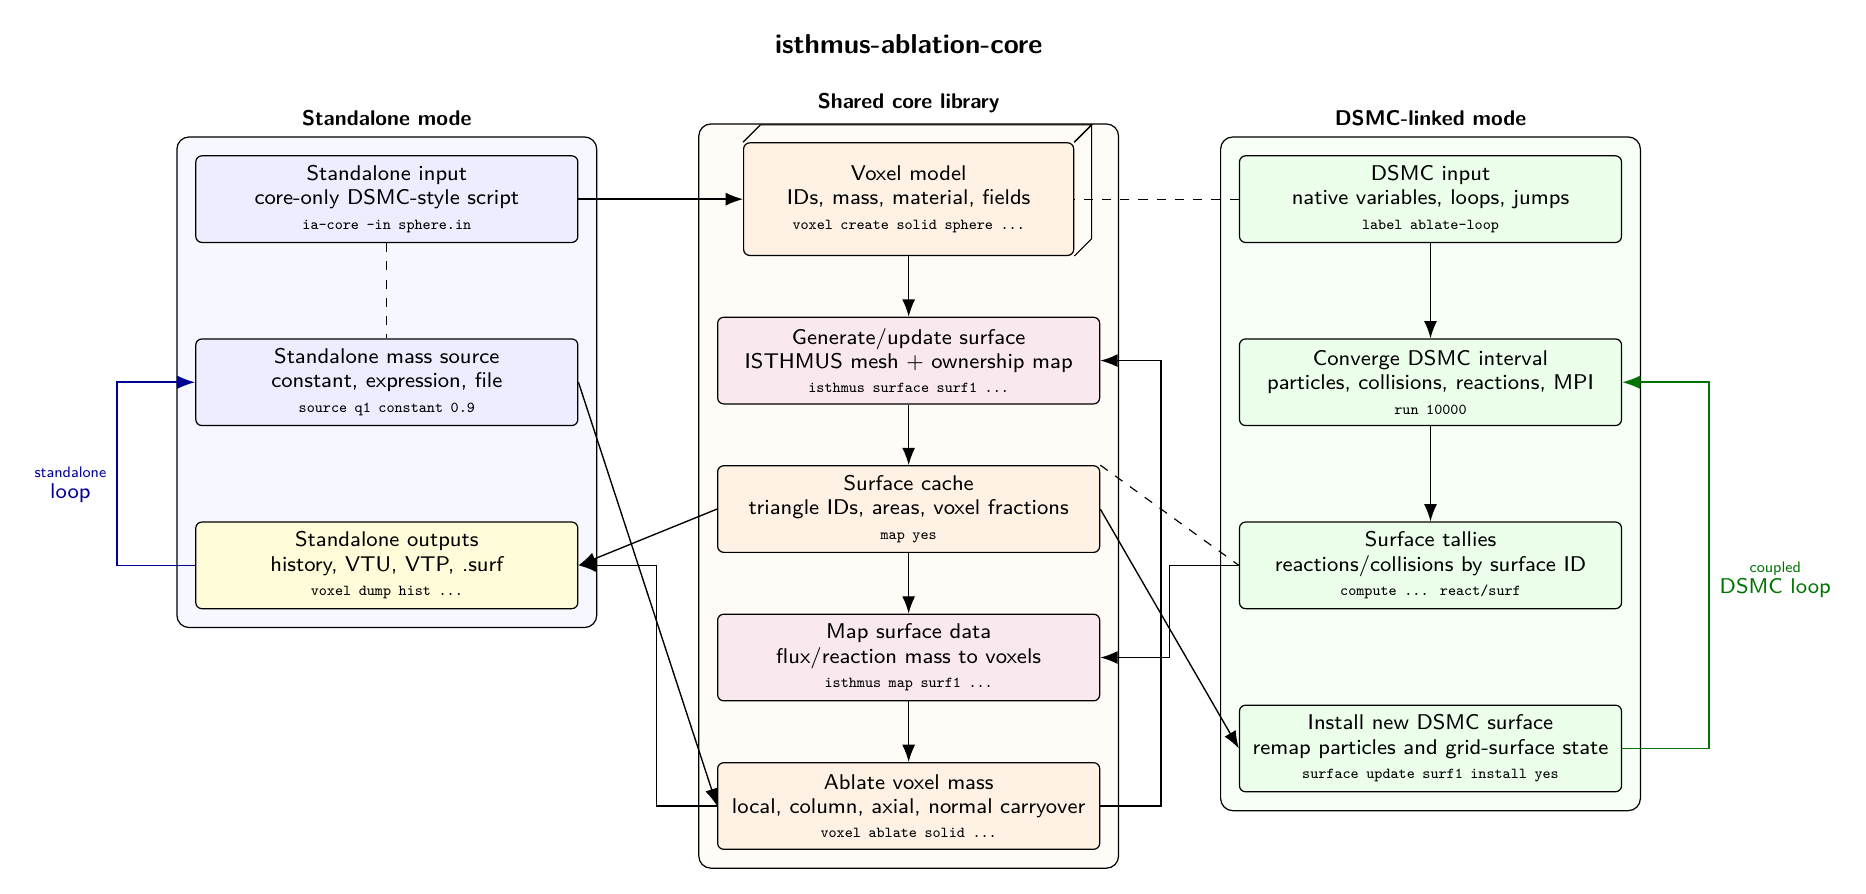
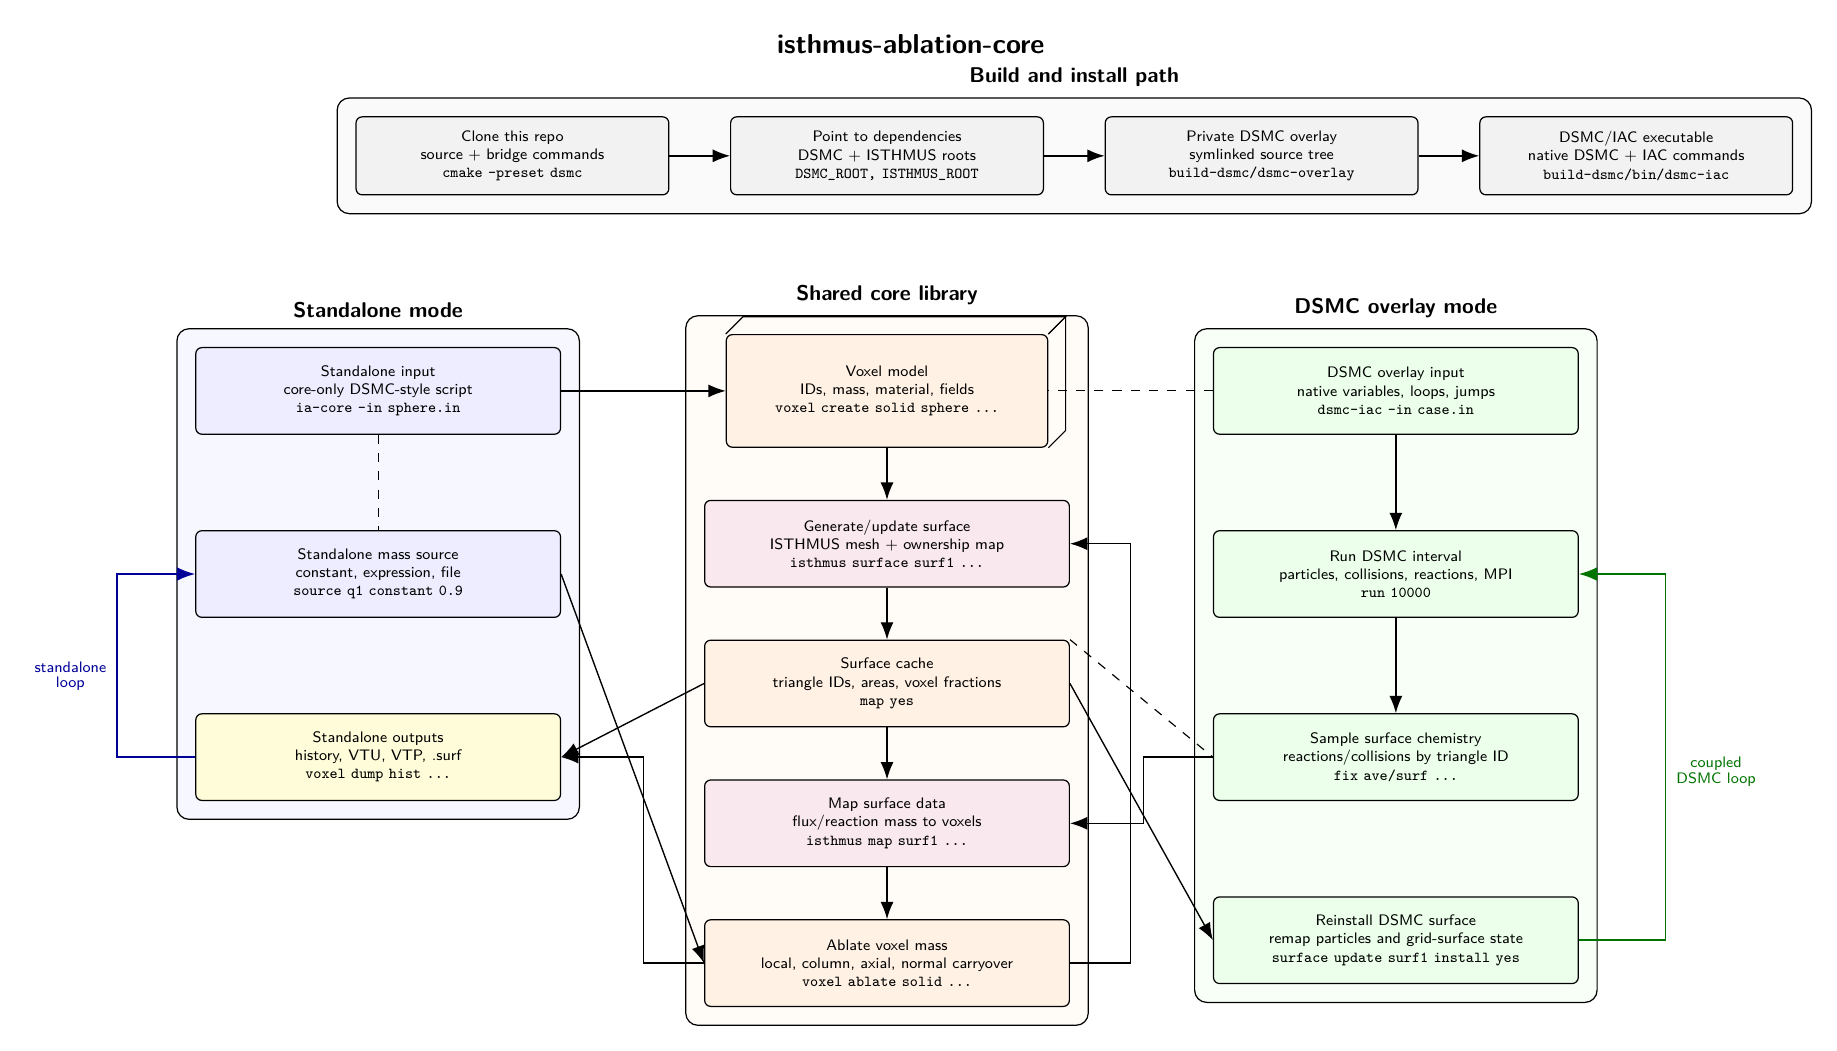
Update architecture flowchart for DSMC overlay

diff --git a/docs/architecture_flowchart.tex b/docs/architecture_flowchart.tex
@@ -6,8 +6,8 @@
 
 \begin{document}
 \begin{tikzpicture}[
-  font=\sffamily\scriptsize,
-  node distance=7mm and 10mm,
+  font=\sffamily\tiny,
+  node distance=6mm and 9mm,
   box/.style={
     draw,
     rounded corners=2pt,
@@ -18,12 +18,17 @@
   },
   widebox/.style={
     box,
-    text width=42mm
+    text width=40mm
   },
   voxelbox/.style={
     box,
-    text width=36mm,
+    text width=35mm,
     minimum height=13mm
+  },
+  buildbox/.style={
+    box,
+    text width=34mm,
+    minimum height=9mm
   },
   group/.style={
     draw,
@@ -49,8 +54,37 @@
 
 \node[font=\sffamily\bfseries\small] (title) at (0,0) {isthmus-ablation-core};
 
+% Build/install path
+\node[buildbox, fill=gray!10, below=6mm of title, xshift=-46mm] (repo) {
+  Clone this repo\\
+  source + bridge commands\\
+  {\ttfamily\tiny cmake --preset dsmc}
+};
+
+\node[buildbox, fill=gray!10, right=7mm of repo] (roots) {
+  Point to dependencies\\
+  DSMC + ISTHMUS roots\\
+  {\ttfamily\tiny DSMC\_ROOT, ISTHMUS\_ROOT}
+};
+
+\node[buildbox, fill=gray!10, right=7mm of roots] (overlay) {
+  Private DSMC overlay\\
+  symlinked source tree\\
+  {\ttfamily\tiny build-dsmc/dsmc-overlay}
+};
+
+\node[buildbox, fill=gray!10, right=7mm of overlay] (exe) {
+  DSMC/IAC executable\\
+  native DSMC + IAC commands\\
+  {\ttfamily\tiny build-dsmc/bin/dsmc-iac}
+};
+
+\draw[seqarrow] (repo) -- (roots);
+\draw[seqarrow] (roots) -- (overlay);
+\draw[seqarrow] (overlay) -- (exe);
+
 % Shared core
-\node[voxelbox, fill=orange!10, below=9mm of title] (voxels) {
+\node[voxelbox, fill=orange!10, below=16mm of roots] (voxels) {
   Voxel model\\
   IDs, mass, material, fields\\
   {\ttfamily\tiny voxel create solid sphere ...}
@@ -105,25 +139,25 @@
 
 % DSMC side
 \node[widebox, fill=green!8, right=19mm of voxels] (dsmc_input) {
-  DSMC input\\
+  DSMC overlay input\\
   native variables, loops, jumps\\
-  {\ttfamily\tiny label ablate-loop}
+  {\ttfamily\tiny dsmc-iac -in case.in}
 };
 
 \node[widebox, fill=green!8, below=11mm of dsmc_input] (dsmc_run) {
-  Converge DSMC interval\\
+  Run DSMC interval\\
   particles, collisions, reactions, MPI\\
   {\ttfamily\tiny run 10000}
 };
 
 \node[widebox, fill=green!8, below=11mm of dsmc_run] (tallies) {
-  Surface tallies\\
-  reactions/collisions by surface ID\\
-  {\ttfamily\tiny compute ... react/surf}
+  Sample surface chemistry\\
+  reactions/collisions by triangle ID\\
+  {\ttfamily\tiny fix ave/surf ...}
 };
 
 \node[widebox, fill=green!8, below=11mm of tallies] (bridge) {
-  Install new DSMC surface\\
+  Reinstall DSMC surface\\
   remap particles and grid-surface state\\
   {\ttfamily\tiny surface update surf1 install yes}
 };
@@ -164,11 +198,15 @@
 
   \node[group, fit=(dsmc_input)(dsmc_run)(tallies)(bridge),
         fill=green!3,
-        label={[font=\sffamily\bfseries\scriptsize]above:DSMC-linked mode}] {};
+        label={[font=\sffamily\bfseries\scriptsize]above:DSMC overlay mode}] {};
 
   \node[group, fit=(voxels)(ablate)(isthmus)(surface),
         fill=orange!3,
         label={[font=\sffamily\bfseries\scriptsize]above:Shared core library}] {};
+
+  \node[group, fit=(repo)(roots)(overlay)(exe),
+        fill=gray!4,
+        label={[font=\sffamily\bfseries\scriptsize]above:Build and install path}] {};
 \end{scope}
 
 \end{tikzpicture}